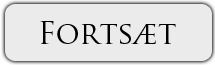
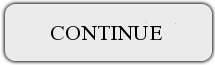
tweax to engrish

Changed region(s): [[0.1674, 0.3077, 0.8372, 0.6769]]

diff --git a/liboh/plugins/ogre/data/chrome/ui/screens/curator_save.html b/liboh/plugins/ogre/data/chrome/ui/screens/curator_save.html
@@ -32,7 +32,7 @@
 				try { 
 						Client.event("navcommand", command );
 				} catch (err) {debug('load save failed' + command);}
-				$("#detail-screen").html("<p>&nbsp;</p><p> Dit galleri er nu gemt. </p><a href='javascript:reset()'><img src='images/continue.png' /></a>");
+				$("#detail-screen").html("<p>&nbsp;</p><p> Your gallery has been saved. </p><a href='javascript:reset()'><img src='images/continue.png' /></a>");
 				setTimeout('reset(); ', 10000);
 				
         }
